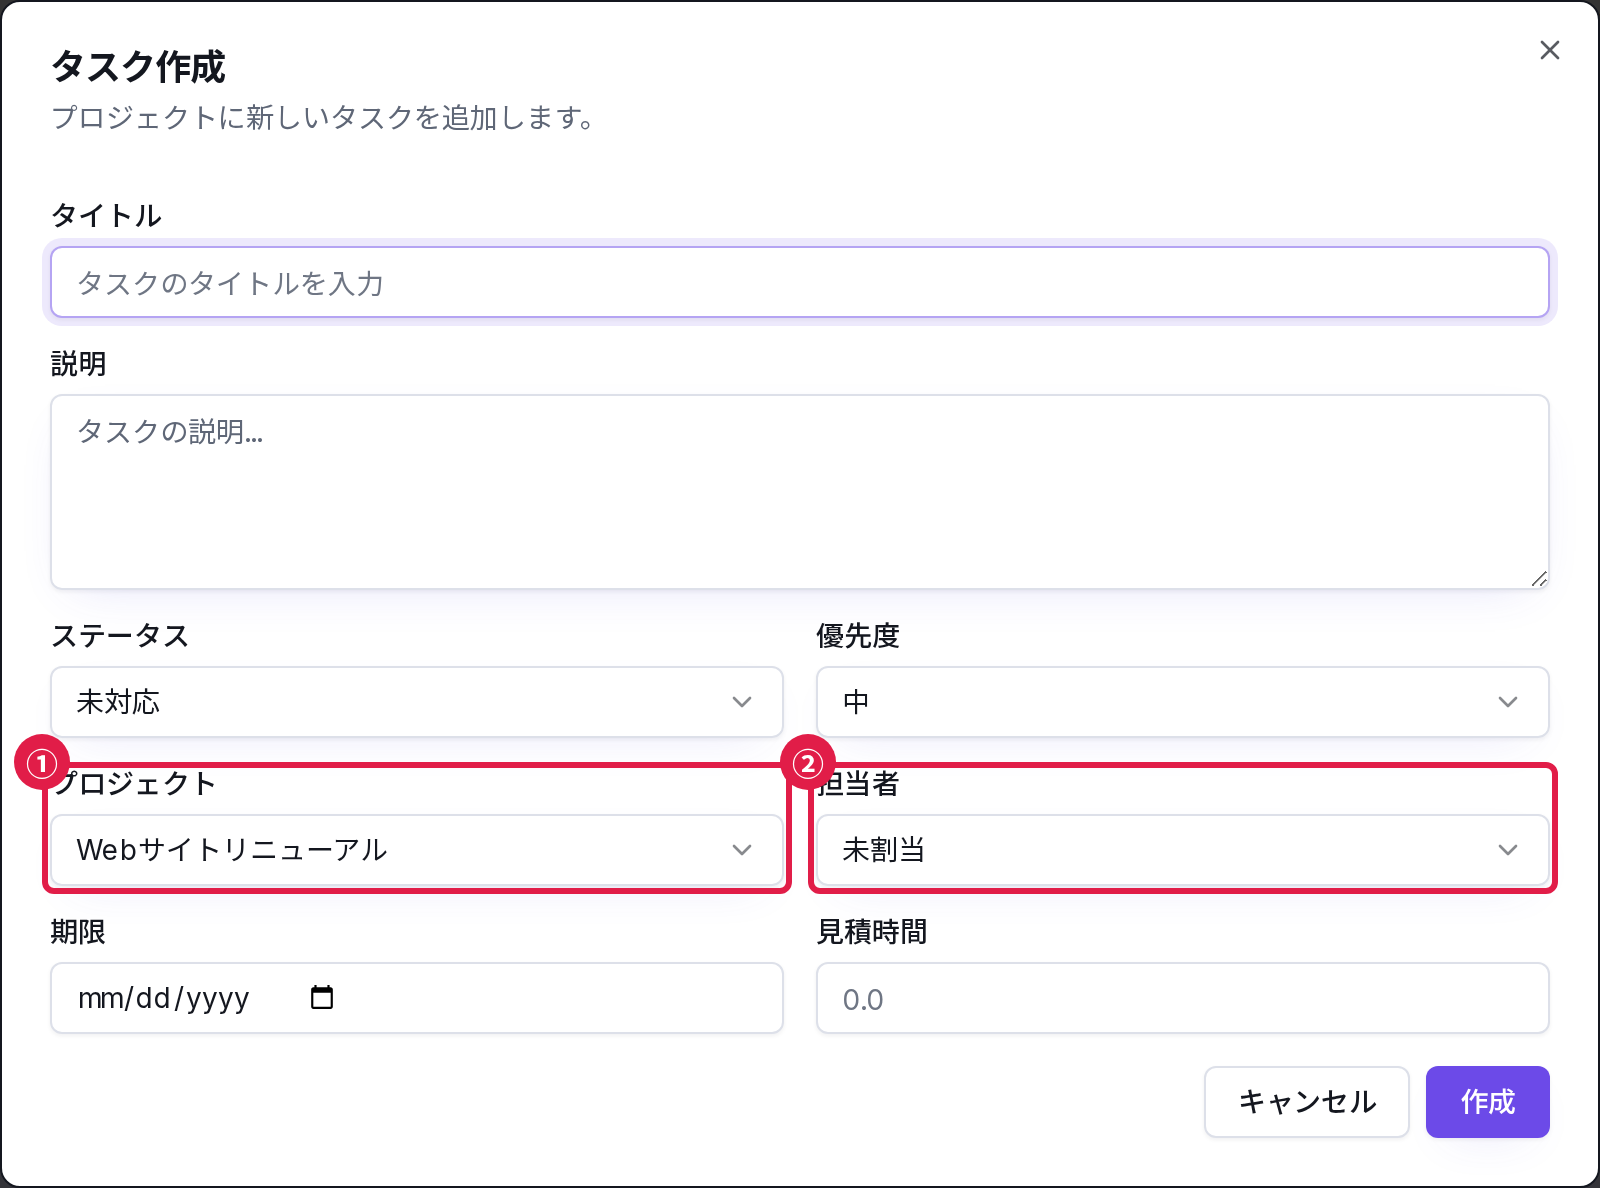
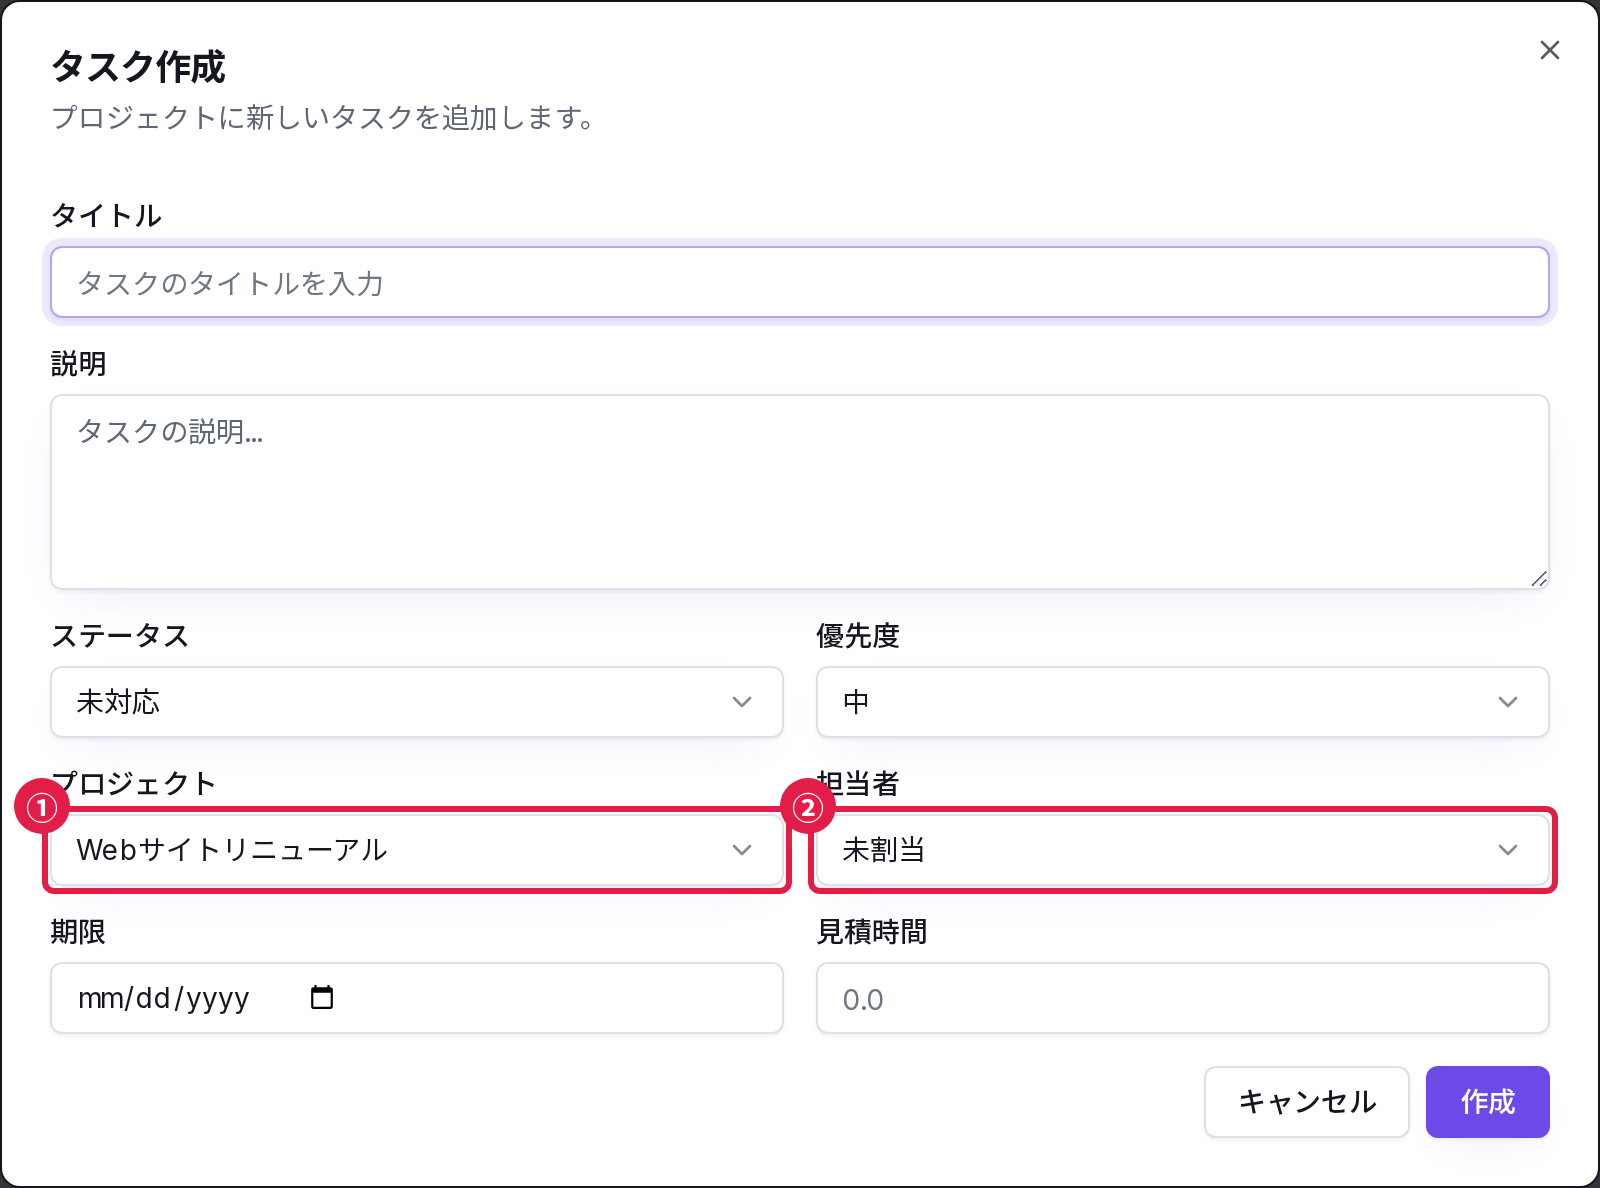
wip(curriculum-qa): 撮影とスナップショットの途中経過を取り込む
- day14 の入力ダイアログ2枚を撮り直し
- 撮影の宣言表を更新
- 日別スナップショットの調整（自己テスト 13/13 合格）

check_quality.sh は ALL CHECKS PASS。担当2体の作業中の途中経過。

Changed region(s): [[0.0, 0.6229, 1.0, 0.7163]]

diff --git a/scripts/curriculum-qa/build_day_snapshots.py b/scripts/curriculum-qa/build_day_snapshots.py
@@ -540,6 +540,32 @@ def introduces_unknown_names(text: str, fragment: str) -> bool:
     return any(name not in known for name in referenced)
 
 
+def join_imports(text: str) -> list[str]:
+    """複数行に折り返された import 文を1行へ畳んだ行の並びを返す。
+
+    教材は `import {` で改行して名前を縦に並べる書き方をよく使う。1行ずつ見る判定では
+    2行目以降が import に見えず、import だけのチャンクを見落とす。
+    """
+    lines = text.split("\n")
+    out: list[str] = []
+    i = 0
+    while i < len(lines):
+        line = lines[i]
+        if line.lstrip().startswith("import ") and "{" in line and "}" not in line:
+            buf = [line.strip()]
+            i += 1
+            while i < len(lines):
+                buf.append(lines[i].strip())
+                if "}" in lines[i]:
+                    break
+                i += 1
+            out.append(re.sub(r"\s+", " ", " ".join(buf)))
+        else:
+            out.append(line)
+        i += 1
+    return out
+
+
 def merge_imports(text: str, fragment: str) -> str | None:
     """import だけの抜粋を、今のファイルの import へ足し合わせる。
 
@@ -551,10 +577,10 @@ def merge_imports(text: str, fragment: str) -> str | None:
     `ProjectMemberRole` と `PermissionKey` を持ち込む。これを当てんと、同じ日の
     差し込みが入れた `buildBulkPermissionWhere` が名前を解決できずに落ちる。
     """
-    lines = fragment.split("\n")
+    lines = join_imports(fragment)
     if not any(line.strip() for line in lines) or not all(IMPORT_ONLY.match(l) for l in lines):
         return None
-    out = text.split("\n")
+    out = join_imports(text)
     changed = False
     for line in lines:
         m = IMPORT_LINE.match(line.strip())

diff --git a/scripts/curriculum-qa/test_build_day_snapshots.py b/scripts/curriculum-qa/test_build_day_snapshots.py
@@ -505,6 +505,12 @@ def check_import_merge() -> list[str]:
     elif got.split("\n").index("import { hasPermission } from '@/lib/constant/roles';") > 2:
         fails.append(f"❌ import が並びの外へ入っている: {got!r}")
 
+    # 縦に並べて書いた import も1本として読む（教材はこの書き方をよく使う）。
+    multiline = "import {\n  assertMemberPermission,\n  findTasksWithPermission,\n} from './_helpers/permission';"
+    got = target.merge_imports("import { assertMemberPermission } from './_helpers/permission';", multiline)
+    if got is None or "findTasksWithPermission" not in got:
+        fails.append(f"❌ 折り返した import を読めていない: {got!r}")
+
     # import 以外が混ざっとるチャンクは対象外（差し込みや書き換えの経路へ回す）。
     if target.merge_imports(text, "import { a } from 'm';\nconst b = 2;") is not None:
         fails.append("❌ import 以外が混ざったチャンクを import 合成として扱っている")

diff --git a/doc/review-handoff/day-snapshots-result.md b/doc/review-handoff/day-snapshots-result.md
@@ -4,7 +4,7 @@
 手元を組み直して、型検査とビルドが通るかを見た結果である。
 
 - 型検査とビルド: 実行した
-- tsc・build とも OK: 0 / 1 日
+- tsc・build とも OK: 1 / 1 日
 - ツリーの置き場: `dist/day-snapshots/dayNN/`
 - tsc の NG は教材の欠陥とは限らない。教材がその日の `完成版` として
   変更箇所の抜粋だけを出す日があり、道具はそれを丸ごとの書き直しとして扱う。
@@ -12,12 +12,4 @@
 
 | Day | ツリー構築 | tsc | build | 最初のエラー3行 |
 | --- | --- | --- | --- | --- |
-| day28 | OK（116 ファイル） | NG | NG | src/server/api/routers/task.ts(417,27): error TS2552: Cannot find name 'findTasksWithPermission'. Did you mean 'findTaskWithPermission'?<br>src/server/api/routers/task.ts(435,27): error TS2552: Cannot find name 'findTasksWithPermission'. Did you mean 'findTaskWithPermission'?<br>src/server/api/routers/task.ts(456,27): error TS2552: Cannot find name 'findTasksWithPermission'. Did you mean 'findTaskWithPermission'? |
-
-## NG の日の切り分け
-
-「教材の欠陥」は現物を読んで確かめたものだけ。読んでいない日は「判定不能（未調査）」。
-
-| Day | 分類 | 根拠 |
-| --- | --- | --- |
-| day28 | ツールの限界 | day18 に加え、src/server/api/routers/task.ts も day15 止まり（94ブロック中22）で PermissionKey が無い |
+| day28 | OK（116 ファイル） | OK | OK | - |
